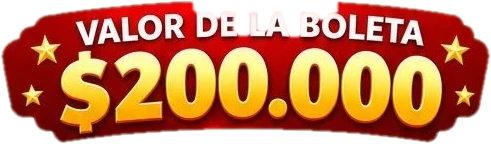
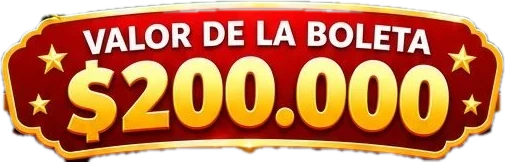
fix: recorte limpio de la placa «Valor de la boleta» con borde dorado
Claude-Session: https://claude.ai/code/session_018WajkWu2ddyKK957GzrFzH

diff --git a/src/components/RaffleApp.tsx b/src/components/RaffleApp.tsx
@@ -139,7 +139,7 @@ export function RaffleApp({ config }: { config: RaffleConfig }) {
 
         <div className="relative z-10 mx-auto max-w-3xl fade-up">
           {/* eslint-disable-next-line @next/next/no-img-element */}
-          <img src="/brand/art/plaque.webp" alt={`Valor de la boleta ${money(price)}`} width={491} height={144} fetchPriority="high" className="mx-auto w-[56%] max-w-[26rem] drop-shadow-[0_10px_16px_rgba(0,0,0,.45)]" />
+          <img src="/brand/art/plaque.webp" alt={`Valor de la boleta ${money(price)}`} width={505} height={162} fetchPriority="high" className="mx-auto w-[56%] max-w-[26rem] drop-shadow-[0_10px_16px_rgba(0,0,0,.45)]" />
           {/* eslint-disable-next-line @next/next/no-img-element */}
           <img src="/brand/art/hero.webp" alt={`Gran Rifa Navideña, ${money(config.totalPrizes)} en premios`} width={1024} height={668} fetchPriority="high" className="mx-auto -mt-1 w-full drop-shadow-[0_14px_20px_rgba(0,0,0,.45)]" />
         </div>

diff --git a/scripts/extract-art.py b/scripts/extract-art.py
@@ -13,7 +13,7 @@ OUT = "public/brand/art"
 
 # nombre: (x0, y0, x1, y1, método, parámetros)
 PIECES = {
-    "plaque":   (250, 50, 770, 208, "grabcut", {"inset": 4}),
+    "plaque":   (215, 40, 810, 206, "plaque", {}),
     # título + cinta NAVIDEÑA + cinta de premios (en la boleta se superponen, se recortan juntos)
     "hero":     (0, 205, 1024, 884, "grabcut", {"inset": 2}),
     "ball1":    (100, 785, 505, 1245, "grabcut", {"inset": 4}),
@@ -66,6 +66,36 @@ def make_mask(crop, method, p):
             for cy in (r, h * 4 - r):
                 cv2.circle(k, (cx, cy), r, 255, -1)
         return cv2.resize(k, (w, h), interpolation=cv2.INTER_AREA)
+    if method == "plaque":
+        # La placa es roja con borde dorado y texto blanco/dorado: se segmenta por color
+        # (GrabCut confundía el borde dorado con el fondo) y se quita lo que no es placa.
+        hsv = cv2.cvtColor(crop, cv2.COLOR_BGR2HSV)
+        H, S, V = (hsv[..., i].astype(int) for i in range(3))
+        fg = (((H < 8) | (H > 168)) & (S > 110) & (V > 60)) | ((H >= 14) & (H <= 34) & (S > 90) & (V > 150)) | ((S < 60) & (V > 200))
+        fg = cv2.morphologyEx(fg.astype(np.uint8) * 255, cv2.MORPH_CLOSE, cv2.getStructuringElement(cv2.MORPH_ELLIPSE, (9, 9)))
+        n, lab, _, _ = cv2.connectedComponentsWithStats(fg, 8)
+        m = ((lab == lab[h // 2, w // 2]) * 255).astype(np.uint8)
+        m = fill_holes(m)
+        core = cv2.morphologyEx(m, cv2.MORPH_OPEN, cv2.getStructuringElement(cv2.MORPH_ELLIPSE, (47, 47)))  # cuerpo de la placa
+        allowed = np.zeros_like(m, dtype=bool)
+        yy, xx = np.mgrid[0:h, 0:w]
+        pad = 9  # margen para conservar el borde dorado y sus volutas
+        cols = np.where(core.any(axis=0))[0]
+        top = np.full(w, h, int); bot = np.full(w, -1, int)
+        for x in cols:
+            ys = np.where(core[:, x] > 0)[0]
+            top[x], bot[x] = ys.min(), ys.max()
+        rows = np.where(core.any(axis=1))[0]
+        left = np.full(h, w, int); right = np.full(h, -1, int)
+        for y in rows:
+            xs = np.where(core[y] > 0)[0]
+            left[y], right[y] = xs.min(), xs.max()
+        allowed = (yy >= top[xx] - 4) & (yy <= bot[xx] + pad) & (xx >= left[yy] - pad) & (xx <= right[yy] + pad)
+        m = cv2.bitwise_and(m, allowed.astype(np.uint8) * 255)
+        m = largest_component(m)
+        m[:16][(V[:16] < 205)] = 0  # restos tenues de luces del fondo sobre el borde superior
+        m = largest_component(m)
+        return cv2.morphologyEx(m, cv2.MORPH_OPEN, cv2.getStructuringElement(cv2.MORPH_ELLIPSE, (5, 5)))
     if method == "circle":
         m = np.zeros((h * 4, w * 4), np.uint8)
         cx, cy = p["c"]
